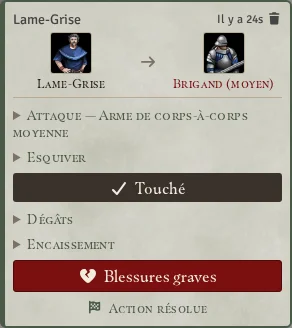
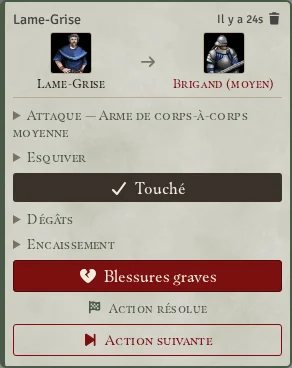
Confrontation : bouton « Action suivante » pour le Meneur
Une fois l'action résolue, le Meneur peut passer à l'action suivante depuis la carte de confrontation, comme avec « Fin action » dans le suivi de combat. Le bouton n'apparaît que si un combat a commencé et que l'attaquant a la main ; il ne sert qu'une fois (drapeau turnAdvanced) et le clic revérifie qui a la main, le tchat ne se redessinant pas quand le combat avance.

Guide : paragraphe dans la page du combat et capture « confrontation-complete » refaite.

diff --git a/guide/html/fr/combat.html b/guide/html/fr/combat.html
@@ -123,6 +123,12 @@
         blessure restent à lire. Le message prend un liseré vert-de-gris et porte la mention « Action résolue ».
       </p>
       <p>
+        Pendant un combat commencé, le meneur trouve sous cette mention un bouton <strong>Action suivante</strong>, si l'attaquant de la carte a la main dans le
+        suivi. Il fait exactement ce que fait <strong>Fin action</strong> : en escarmouche, 10 points d'initiative en moins et la main au suivant ; en duel, la
+        passe d'armes suivante. Le bouton ne sert qu'une fois et n'est visible que du meneur. Les joueurs ne le voient pas : c'est au meneur de juger que l'action
+        est terminée, par exemple après un dernier dépassement.
+      </p>
+      <p>
         Le meneur voit tous les boutons de la carte, pour pouvoir débloquer une situation, mais ceux qui reviennent à un joueur sont grisés : les boutons des PNJ,
         qu'il doit cliquer lui-même, ressortent d'emblée. Un bouton grisé reste cliquable et reprend son éclat au survol.
       </p>

diff --git a/CHANGELOG.md b/CHANGELOG.md
@@ -1,3 +1,7 @@
+## 0.9.4
+
+- **Confrontation** : une fois l'action résolue, le Meneur dispose d'un bouton « Action suivante » sur la carte, qui fait la même chose que « Fin action » dans le suivi de combat. Il n'apparaît que si un combat a commencé et que l'attaquant a la main, et il ne sert qu'une fois.
+
 ## 0.9.3
 
 - **Tchat** : le volet « Détail du seuil » d'une carte de jet ou d'une étape de confrontation n'est plus affiché qu'à celui qui a lancé le jet, au joueur du personnage (quand le Meneur a lancé pour lui) et au Meneur.
